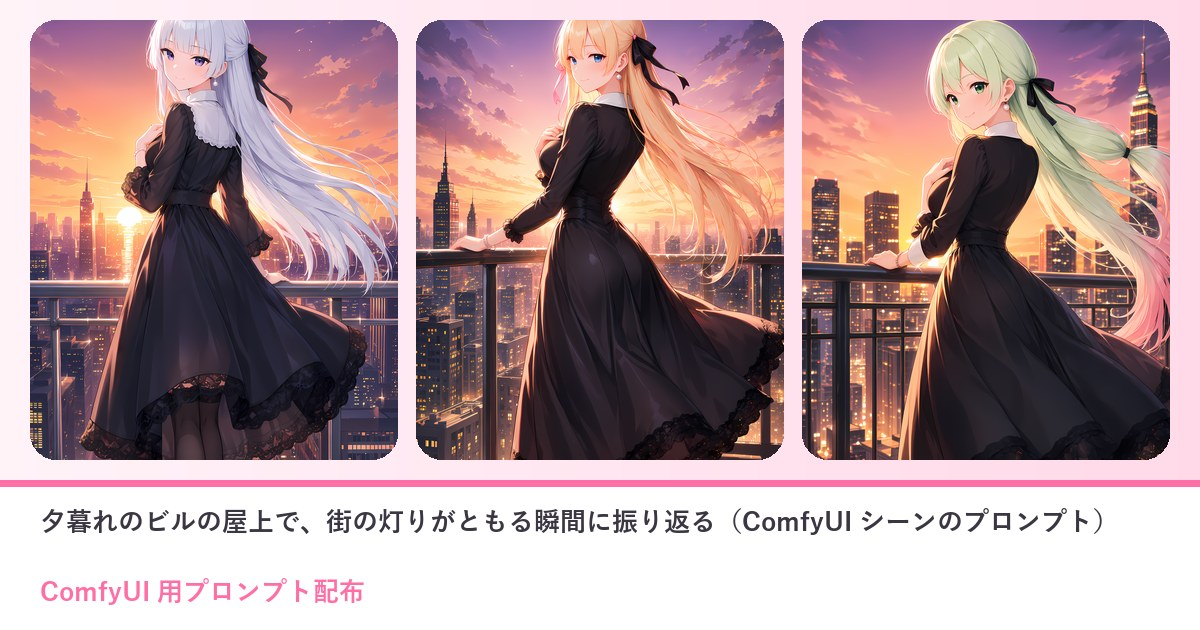
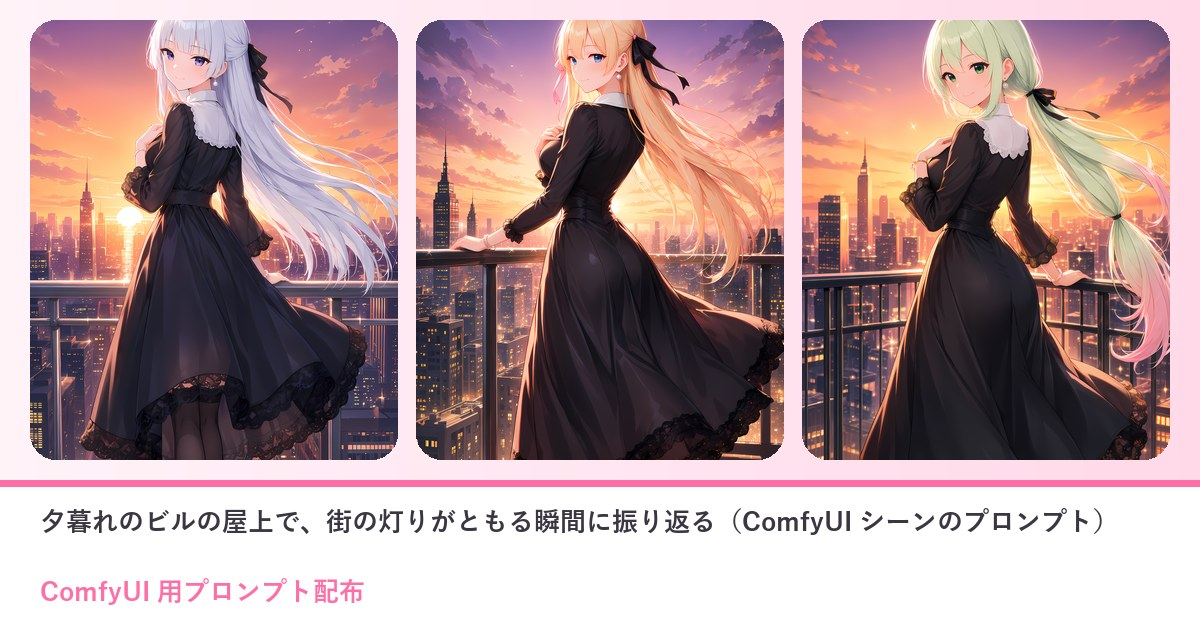
配布 10/22 眠り姫 屋上：ティルナの作例を焼き直し（腕）

Changed region(s): [[0.6475, 0.0302, 0.9867, 0.754], [0.8633, 0.6937, 0.8942, 0.7238], [0.8325, 0.6635, 0.8633, 0.6937]]

diff --git a/prompts/2026-10-22-comfy-bjgg7ut0.html b/prompts/2026-10-22-comfy-bjgg7ut0.html
@@ -74,7 +74,7 @@
 <div class="sky"></div>
 <main class="wrap">
 <section class="sec"><div class="sec-head"><h2>夕暮れのビルの屋上で、街の灯りがともる瞬間に振り返る（ComfyUI シーンのプロンプト）</h2><p>ひみつの眠り姫のプロンプト配布</p></div>
-<div class="ps"><p><span class="ps-badge">ComfyUI 用</span><span class="ps-badge">2026-10-22</span></p><p class="ps-lead">ComfyUI（Anima）に貼るだけで、夕暮れのビルの屋上の一枚に。オレンジから紫へ変わっていく空と、ひとつずつ灯りはじめる高層ビルの街並みを背に、黒いドレスの女の子が手すりのそばで風に髪をなびかせ、肩ごしにこちらを振り返ります。白い襟と黒いリボン、レースの裾、黒いタイツとストラップの靴まで入る全身の構図。LoRA がない方は、1行目の髪の色と髪型を書き換えるだけで、あなたの子に近づけられます。</p><nav class="ps-toc" aria-label="目次"><p>📑 目次</p><ol><li><a href="#sec1">作例</a></li><li><a href="#sec2">3人のおしゃべり（街の灯りの点灯当てっこ）</a></li><li><a href="#sec3">使い方（3ステップ）</a></li><li><a href="#sec4">プロンプト</a></li><li><a href="#sec5">必要なもの（ComfyUI）</a></li><li><a href="#sec6">メモ</a></li><li><a href="#sec7">配布ルール</a></li></ol></nav><h2 id="sec1">作例</h2><div class="ps-ex"><figure><img src="img/2026-10-22-comfy-bjgg7ut0/ex1.webp" alt="リリアの LoRA で焼いた作例（B のプロンプト）。夕暮れのビルの屋上で、白銀の長い髪を風になびかせ、胸に手を当てて肩ごしに振り返る。黒いドレスのレースの裾と、沈む夕日に照らされた街並み" loading="lazy"><figcaption>リリアの LoRA で焼いた作例（B のプロンプト）。夕暮れのビルの屋上で、白銀の長い髪を風になびかせ、胸に手を当てて肩ごしに振り返る。黒いドレスのレースの裾と、沈む夕日に照らされた街並み</figcaption></figure><figure><img src="img/2026-10-22-comfy-bjgg7ut0/ex2.webp" alt="同じプロンプトをセフィリアの LoRA で。金色の長い髪に黒いリボン。手すりに片手をそえて、高層ビルの向こうの夕空を背にこちらを振り返ります" loading="lazy"><figcaption>同じプロンプトをセフィリアの LoRA で。金色の長い髪に黒いリボン。手すりに片手をそえて、高層ビルの向こうの夕空を背にこちらを振り返ります</figcaption></figure><figure><img src="img/2026-10-22-comfy-bjgg7ut0/ex3.webp" alt="同じプロンプトをティルナの LoRA で。毛先がピンクの若草色のツインテールが風になびいて、手すりにそっと手を置いたまま、やわらかく微笑みます" loading="lazy"><figcaption>同じプロンプトをティルナの LoRA で。毛先がピンクの若草色のツインテールが風になびいて、手すりにそっと手を置いたまま、やわらかく微笑みます</figcaption></figure></div><p style="font-size:.82rem;color:var(--ps-ink)">※作例の画像の転載・保存しての再配布はご遠慮ください。</p><h2 id="sec2">3人のおしゃべり（街の灯りの点灯当てっこ）</h2><div class="ps-chat"><img src="img/2026-10-22-comfy-bjgg7ut0/talk_tiru_smug.webp" alt="ティルナ" loading="lazy"><div><div class="who">ティルナ</div><div class="bub">……あの、てっぺんがとがった塔の窓が、きっといちばん先に光るんだ。わたしの勘、よく当たるの</div></div></div><div class="ps-chat r"><img src="img/2026-10-22-comfy-bjgg7ut0/talk_lilia_laugh.webp" alt="リリア" loading="lazy"><div><div class="who">リリア</div><div class="bub">ティルナちゃん、ひとりで何をつぶやいているんですか？ 夕日に向かって占いでしょうか</div></div></div><div class="ps-chat r"><img src="img/2026-10-22-comfy-bjgg7ut0/talk_sefi_smug.webp" alt="セフィリア" loading="lazy"><div><div class="who">セフィリア</div><div class="bub">灯りがつく順番の当てっこですね。では、わたくしは右の大きなビルにいたします</div></div></div><div class="ps-chat r"><img src="img/2026-10-22-comfy-bjgg7ut0/talk_lilia_normal.webp" alt="リリア" loading="lazy"><div><div class="who">リリア</div><div class="bub">わたしは、あの小さな四角い窓です。……ほら、そろそろ空が紫になってきました</div></div></div><div class="ps-chat"><img src="img/2026-10-22-comfy-bjgg7ut0/talk_tiru_laugh.webp" alt="ティルナ" loading="lazy"><div><div class="who">ティルナ</div><div class="bub">風が気持ちいいね〜。髪がぜんぶうしろに持っていかれちゃう！</div></div></div><div class="ps-chat r"><img src="img/2026-10-22-comfy-bjgg7ut0/talk_lilia_happy.webp" alt="リリア" loading="lazy"><div><div class="who">リリア</div><div class="bub">今日の配布は、ちょうどこの場面です。夕暮れのビルの屋上で、街の灯りを背に黒いドレスで振り返る一枚</div></div></div><div class="ps-chat r"><img src="img/2026-10-22-comfy-bjgg7ut0/talk_sefi_happy.webp" alt="セフィリア" loading="lazy"><div><div class="who">セフィリア</div><div class="bub">後ろから見上げる縦長の全身です。レースの裾から、黒いタイツとストラップの靴まで入ります</div></div></div><div class="ps-chat"><img src="img/2026-10-22-comfy-bjgg7ut0/talk_tiru_wink.webp" alt="ティルナ" loading="lazy"><div><div class="who">ティルナ</div><div class="bub">LoRA がない人は、いちばん上の行の髪と目の色を変えるだけでいいの。かんたんだよ！</div></div></div><div class="ps-chat r"><img src="img/2026-10-22-comfy-bjgg7ut0/talk_lilia_normal.webp" alt="リリア" loading="lazy"><div><div class="who">リリア</div><div class="bub">手すりに手をそえるか、胸に手を当てるかは、焼くたびに変わります。お好きなほうを選んでくださいね</div></div></div><div class="ps-chat"><img src="img/2026-10-22-comfy-bjgg7ut0/talk_tiru_thinking.webp" alt="ティルナ" loading="lazy"><div><div class="who">ティルナ</div><div class="bub">……あれ？ まだどこも光らないね</div></div></div><div class="ps-chat r"><img src="img/2026-10-22-comfy-bjgg7ut0/talk_sefi_exasperated.webp" alt="セフィリア" loading="lazy"><div><div class="who">セフィリア</div><div class="bub">わたくしのビル、まだでしょうか？ 早く光ってくださいませ</div></div></div><div class="ps-chat r"><img src="img/2026-10-22-comfy-bjgg7ut0/talk_lilia_panic.webp" alt="リリア" loading="lazy"><div><div class="who">リリア</div><div class="bub">おかしいですね……わたしの勘では、もう三回は光っているはずなのですが</div></div></div><div class="ps-chat"><img src="img/2026-10-22-comfy-bjgg7ut0/talk_tiru_surprised.webp" alt="ティルナ" loading="lazy"><div><div class="who">ティルナ</div><div class="bub">あっ！ うしろ！ この屋上の灯りが、いちばん先についちゃった！</div></div></div><div class="ps-chat r"><img src="img/2026-10-22-comfy-bjgg7ut0/talk_sefi_laugh.webp" alt="セフィリア" loading="lazy"><div><div class="who">セフィリア</div><div class="bub">まあ……全員はずれですね。でも、いちばん近くの灯りがいちばん綺麗です</div></div></div><div class="ps-chat r"><img src="img/2026-10-22-comfy-bjgg7ut0/talk_lilia_happy.webp" alt="リリア" loading="lazy"><div><div class="who">リリア</div><div class="bub">では三人で、灯りのほうへ振り返りましょう。せーの、で</div></div></div><h2 id="sec3">使い方（3ステップ）</h2><ol class="ps-steps"><li>ComfyUI で Anima のモデルを読み、基本の画像生成（テキストから画像）の画面にする</li><li>下の A（LoRA なし）か B（LoRA あり）のポジティブと、ネガティブをワンタップでコピーして貼る</li><li>「推奨値」の大きさ・steps・CFG にして生成する（できれば 1.5 倍の hires fix も）</li></ol><h2 id="sec4">プロンプト</h2><div class="ps-note" style="margin-bottom:12px"><b>変えるのは1行目の色の付いたところだけ</b>（先頭の <code>1girl, solo</code> などはそのまま）<ul><li>使うプロンプトは2通り＝<b>A. LoRA を持っていない人</b>／<b>B. 自分のキャラの LoRA を持っている人</b>。どちらも丸ごとコピーして貼るだけ</li><li>A は<b>そのまま</b>でも綺麗な女の子で出ます。自分のキャラにするなら1行目の髪の色・髪型・目の色を書き換えるだけ</li><li>B は1行目の <code>your_lora_trigger</code> を自分の LoRA のトリガー語に置きかえるだけ（LoRA の強さは下の表）</li><li>2行目から下（シーン）と、ネガティブプロンプトは変えずにそのまま</li><li>🚫 版権キャラの名前・版権キャラの LoRA を入れて使うのは固く禁止です（下の「配布ルール」）</li></ul></div><h3 style="margin:14px 0 8px">A. LoRA を持っていない人（そのままでもOK）</h3><div class="ps-box"><button class="ps-copy" type="button" data-target="ps-prompt">📋 ワンタップでコピー</button><p style="margin:0 0 8px;font-size:.82rem;color:var(--ps-a)">ポジティブプロンプト</p><pre>1girl, solo, <mark class="ps-in" data-key="キャラの行">very long hair, white hair, blunt bangs, purple eyes</mark>
+<div class="ps"><p><span class="ps-badge">ComfyUI 用</span><span class="ps-badge">2026-10-22</span></p><p class="ps-lead">ComfyUI（Anima）に貼るだけで、夕暮れのビルの屋上の一枚に。オレンジから紫へ変わっていく空と、ひとつずつ灯りはじめる高層ビルの街並みを背に、黒いドレスの女の子が手すりのそばで風に髪をなびかせ、肩ごしにこちらを振り返ります。白い襟と黒いリボン、レースの裾、黒いタイツとストラップの靴まで入る全身の構図。LoRA がない方は、1行目の髪の色と髪型を書き換えるだけで、あなたの子に近づけられます。</p><nav class="ps-toc" aria-label="目次"><p>📑 目次</p><ol><li><a href="#sec1">作例</a></li><li><a href="#sec2">3人のおしゃべり（街の灯りの点灯当てっこ）</a></li><li><a href="#sec3">使い方（3ステップ）</a></li><li><a href="#sec4">プロンプト</a></li><li><a href="#sec5">必要なもの（ComfyUI）</a></li><li><a href="#sec6">メモ</a></li><li><a href="#sec7">配布ルール</a></li></ol></nav><h2 id="sec1">作例</h2><div class="ps-ex"><figure><img src="img/2026-10-22-comfy-bjgg7ut0/ex1.webp" alt="リリアの LoRA で焼いた作例（B のプロンプト）。夕暮れのビルの屋上で、白銀の長い髪を風になびかせ、胸に手を当てて肩ごしに振り返る。黒いドレスのレースの裾と、沈む夕日に照らされた街並み" loading="lazy"><figcaption>リリアの LoRA で焼いた作例（B のプロンプト）。夕暮れのビルの屋上で、白銀の長い髪を風になびかせ、胸に手を当てて肩ごしに振り返る。黒いドレスのレースの裾と、沈む夕日に照らされた街並み</figcaption></figure><figure><img src="img/2026-10-22-comfy-bjgg7ut0/ex2.webp" alt="同じプロンプトをセフィリアの LoRA で。金色の長い髪に黒いリボン。手すりに片手をそえて、高層ビルの向こうの夕空を背にこちらを振り返ります" loading="lazy"><figcaption>同じプロンプトをセフィリアの LoRA で。金色の長い髪に黒いリボン。手すりに片手をそえて、高層ビルの向こうの夕空を背にこちらを振り返ります</figcaption></figure><figure><img src="img/2026-10-22-comfy-bjgg7ut0/ex3.webp" alt="同じプロンプトをティルナの LoRA で。毛先がピンクの若草色の髪を低く結んで風になびかせ、片手を胸に当てて、もう片方の手をうしろの手すりにそえたまま、やわらかく微笑みます" loading="lazy"><figcaption>同じプロンプトをティルナの LoRA で。毛先がピンクの若草色の髪を低く結んで風になびかせ、片手を胸に当てて、もう片方の手をうしろの手すりにそえたまま、やわらかく微笑みます</figcaption></figure></div><p style="font-size:.82rem;color:var(--ps-ink)">※作例の画像の転載・保存しての再配布はご遠慮ください。</p><h2 id="sec2">3人のおしゃべり（街の灯りの点灯当てっこ）</h2><div class="ps-chat"><img src="img/2026-10-22-comfy-bjgg7ut0/talk_tiru_smug.webp" alt="ティルナ" loading="lazy"><div><div class="who">ティルナ</div><div class="bub">……あの、てっぺんがとがった塔の窓が、きっといちばん先に光るんだ。わたしの勘、よく当たるの</div></div></div><div class="ps-chat r"><img src="img/2026-10-22-comfy-bjgg7ut0/talk_lilia_laugh.webp" alt="リリア" loading="lazy"><div><div class="who">リリア</div><div class="bub">ティルナちゃん、ひとりで何をつぶやいているんですか？ 夕日に向かって占いでしょうか</div></div></div><div class="ps-chat r"><img src="img/2026-10-22-comfy-bjgg7ut0/talk_sefi_smug.webp" alt="セフィリア" loading="lazy"><div><div class="who">セフィリア</div><div class="bub">灯りがつく順番の当てっこですね。では、わたくしは右の大きなビルにいたします</div></div></div><div class="ps-chat r"><img src="img/2026-10-22-comfy-bjgg7ut0/talk_lilia_normal.webp" alt="リリア" loading="lazy"><div><div class="who">リリア</div><div class="bub">わたしは、あの小さな四角い窓です。……ほら、そろそろ空が紫になってきました</div></div></div><div class="ps-chat"><img src="img/2026-10-22-comfy-bjgg7ut0/talk_tiru_laugh.webp" alt="ティルナ" loading="lazy"><div><div class="who">ティルナ</div><div class="bub">風が気持ちいいね〜。髪がぜんぶうしろに持っていかれちゃう！</div></div></div><div class="ps-chat r"><img src="img/2026-10-22-comfy-bjgg7ut0/talk_lilia_happy.webp" alt="リリア" loading="lazy"><div><div class="who">リリア</div><div class="bub">今日の配布は、ちょうどこの場面です。夕暮れのビルの屋上で、街の灯りを背に黒いドレスで振り返る一枚</div></div></div><div class="ps-chat r"><img src="img/2026-10-22-comfy-bjgg7ut0/talk_sefi_happy.webp" alt="セフィリア" loading="lazy"><div><div class="who">セフィリア</div><div class="bub">後ろから見上げる縦長の全身です。レースの裾から、黒いタイツとストラップの靴まで入ります</div></div></div><div class="ps-chat"><img src="img/2026-10-22-comfy-bjgg7ut0/talk_tiru_wink.webp" alt="ティルナ" loading="lazy"><div><div class="who">ティルナ</div><div class="bub">LoRA がない人は、いちばん上の行の髪と目の色を変えるだけでいいの。かんたんだよ！</div></div></div><div class="ps-chat r"><img src="img/2026-10-22-comfy-bjgg7ut0/talk_lilia_normal.webp" alt="リリア" loading="lazy"><div><div class="who">リリア</div><div class="bub">手すりに手をそえるか、胸に手を当てるかは、焼くたびに変わります。お好きなほうを選んでくださいね</div></div></div><div class="ps-chat"><img src="img/2026-10-22-comfy-bjgg7ut0/talk_tiru_thinking.webp" alt="ティルナ" loading="lazy"><div><div class="who">ティルナ</div><div class="bub">……あれ？ まだどこも光らないね</div></div></div><div class="ps-chat r"><img src="img/2026-10-22-comfy-bjgg7ut0/talk_sefi_exasperated.webp" alt="セフィリア" loading="lazy"><div><div class="who">セフィリア</div><div class="bub">わたくしのビル、まだでしょうか？ 早く光ってくださいませ</div></div></div><div class="ps-chat r"><img src="img/2026-10-22-comfy-bjgg7ut0/talk_lilia_panic.webp" alt="リリア" loading="lazy"><div><div class="who">リリア</div><div class="bub">おかしいですね……わたしの勘では、もう三回は光っているはずなのですが</div></div></div><div class="ps-chat"><img src="img/2026-10-22-comfy-bjgg7ut0/talk_tiru_surprised.webp" alt="ティルナ" loading="lazy"><div><div class="who">ティルナ</div><div class="bub">あっ！ うしろ！ この屋上の灯りが、いちばん先についちゃった！</div></div></div><div class="ps-chat r"><img src="img/2026-10-22-comfy-bjgg7ut0/talk_sefi_laugh.webp" alt="セフィリア" loading="lazy"><div><div class="who">セフィリア</div><div class="bub">まあ……全員はずれですね。でも、いちばん近くの灯りがいちばん綺麗です</div></div></div><div class="ps-chat r"><img src="img/2026-10-22-comfy-bjgg7ut0/talk_lilia_happy.webp" alt="リリア" loading="lazy"><div><div class="who">リリア</div><div class="bub">では三人で、灯りのほうへ振り返りましょう。せーの、で</div></div></div><h2 id="sec3">使い方（3ステップ）</h2><ol class="ps-steps"><li>ComfyUI で Anima のモデルを読み、基本の画像生成（テキストから画像）の画面にする</li><li>下の A（LoRA なし）か B（LoRA あり）のポジティブと、ネガティブをワンタップでコピーして貼る</li><li>「推奨値」の大きさ・steps・CFG にして生成する（できれば 1.5 倍の hires fix も）</li></ol><h2 id="sec4">プロンプト</h2><div class="ps-note" style="margin-bottom:12px"><b>変えるのは1行目の色の付いたところだけ</b>（先頭の <code>1girl, solo</code> などはそのまま）<ul><li>使うプロンプトは2通り＝<b>A. LoRA を持っていない人</b>／<b>B. 自分のキャラの LoRA を持っている人</b>。どちらも丸ごとコピーして貼るだけ</li><li>A は<b>そのまま</b>でも綺麗な女の子で出ます。自分のキャラにするなら1行目の髪の色・髪型・目の色を書き換えるだけ</li><li>B は1行目の <code>your_lora_trigger</code> を自分の LoRA のトリガー語に置きかえるだけ（LoRA の強さは下の表）</li><li>2行目から下（シーン）と、ネガティブプロンプトは変えずにそのまま</li><li>🚫 版権キャラの名前・版権キャラの LoRA を入れて使うのは固く禁止です（下の「配布ルール」）</li></ul></div><h3 style="margin:14px 0 8px">A. LoRA を持っていない人（そのままでもOK）</h3><div class="ps-box"><button class="ps-copy" type="button" data-target="ps-prompt">📋 ワンタップでコピー</button><p style="margin:0 0 8px;font-size:.82rem;color:var(--ps-a)">ポジティブプロンプト</p><pre>1girl, solo, <mark class="ps-in" data-key="キャラの行">very long hair, white hair, blunt bangs, purple eyes</mark>
 masterpiece, best quality, score_7, safe, full body, from behind, looking back, smile, closed mouth, standing, hand on railing, hand on own chest, rooftop, railing, cityscape, city lights, skyscraper, outdoors, evening, sunset, orange sky, purple sky, backlighting, warm colors, depth of field, wind, floating hair, black dress, satin, long dress, long sleeves, frills, lace trim, collared dress, white collar, hair ribbon, black ribbon, pearl earrings, bracelet, black thighhighs, thighhighs, mary janes, sparkle</pre><textarea class="ps-copyarea" id="ps-prompt" readonly aria-hidden="true" tabindex="-1">1girl, solo, very long hair, white hair, blunt bangs, purple eyes
 masterpiece, best quality, score_7, safe, full body, from behind, looking back, smile, closed mouth, standing, hand on railing, hand on own chest, rooftop, railing, cityscape, city lights, skyscraper, outdoors, evening, sunset, orange sky, purple sky, backlighting, warm colors, depth of field, wind, floating hair, black dress, satin, long dress, long sleeves, frills, lace trim, collared dress, white collar, hair ribbon, black ribbon, pearl earrings, bracelet, black thighhighs, thighhighs, mary janes, sparkle</textarea></div><h3 style="margin:18px 0 8px">B. 自分のキャラの LoRA を持っている人</h3><div class="ps-box"><button class="ps-copy" type="button" data-target="ps-prompt-lora">📋 ワンタップでコピー</button><p style="margin:0 0 8px;font-size:.82rem;color:var(--ps-a)">ポジティブプロンプト（LoRA 用）</p><pre>masterpiece, best quality, score_7, year 2025, highres, absurdres, <mark class="ps-in" data-key="キャラの行">your_lora_trigger</mark>, 1girl, solo,
 full body, from behind, looking back, smile, closed mouth, standing, hand on railing, hand on own chest, rooftop, railing, cityscape, city lights, skyscraper, outdoors, evening, sunset, orange sky, purple sky, backlighting, warm colors, depth of field, wind, floating hair, black dress, satin, long dress, long sleeves, frills, lace trim, collared dress, white collar, hair ribbon, black ribbon, pearl earrings, bracelet, black thighhighs, thighhighs, mary janes, sparkle</pre><textarea class="ps-copyarea" id="ps-prompt-lora" readonly aria-hidden="true" tabindex="-1">masterpiece, best quality, score_7, year 2025, highres, absurdres, your_lora_trigger, 1girl, solo,
